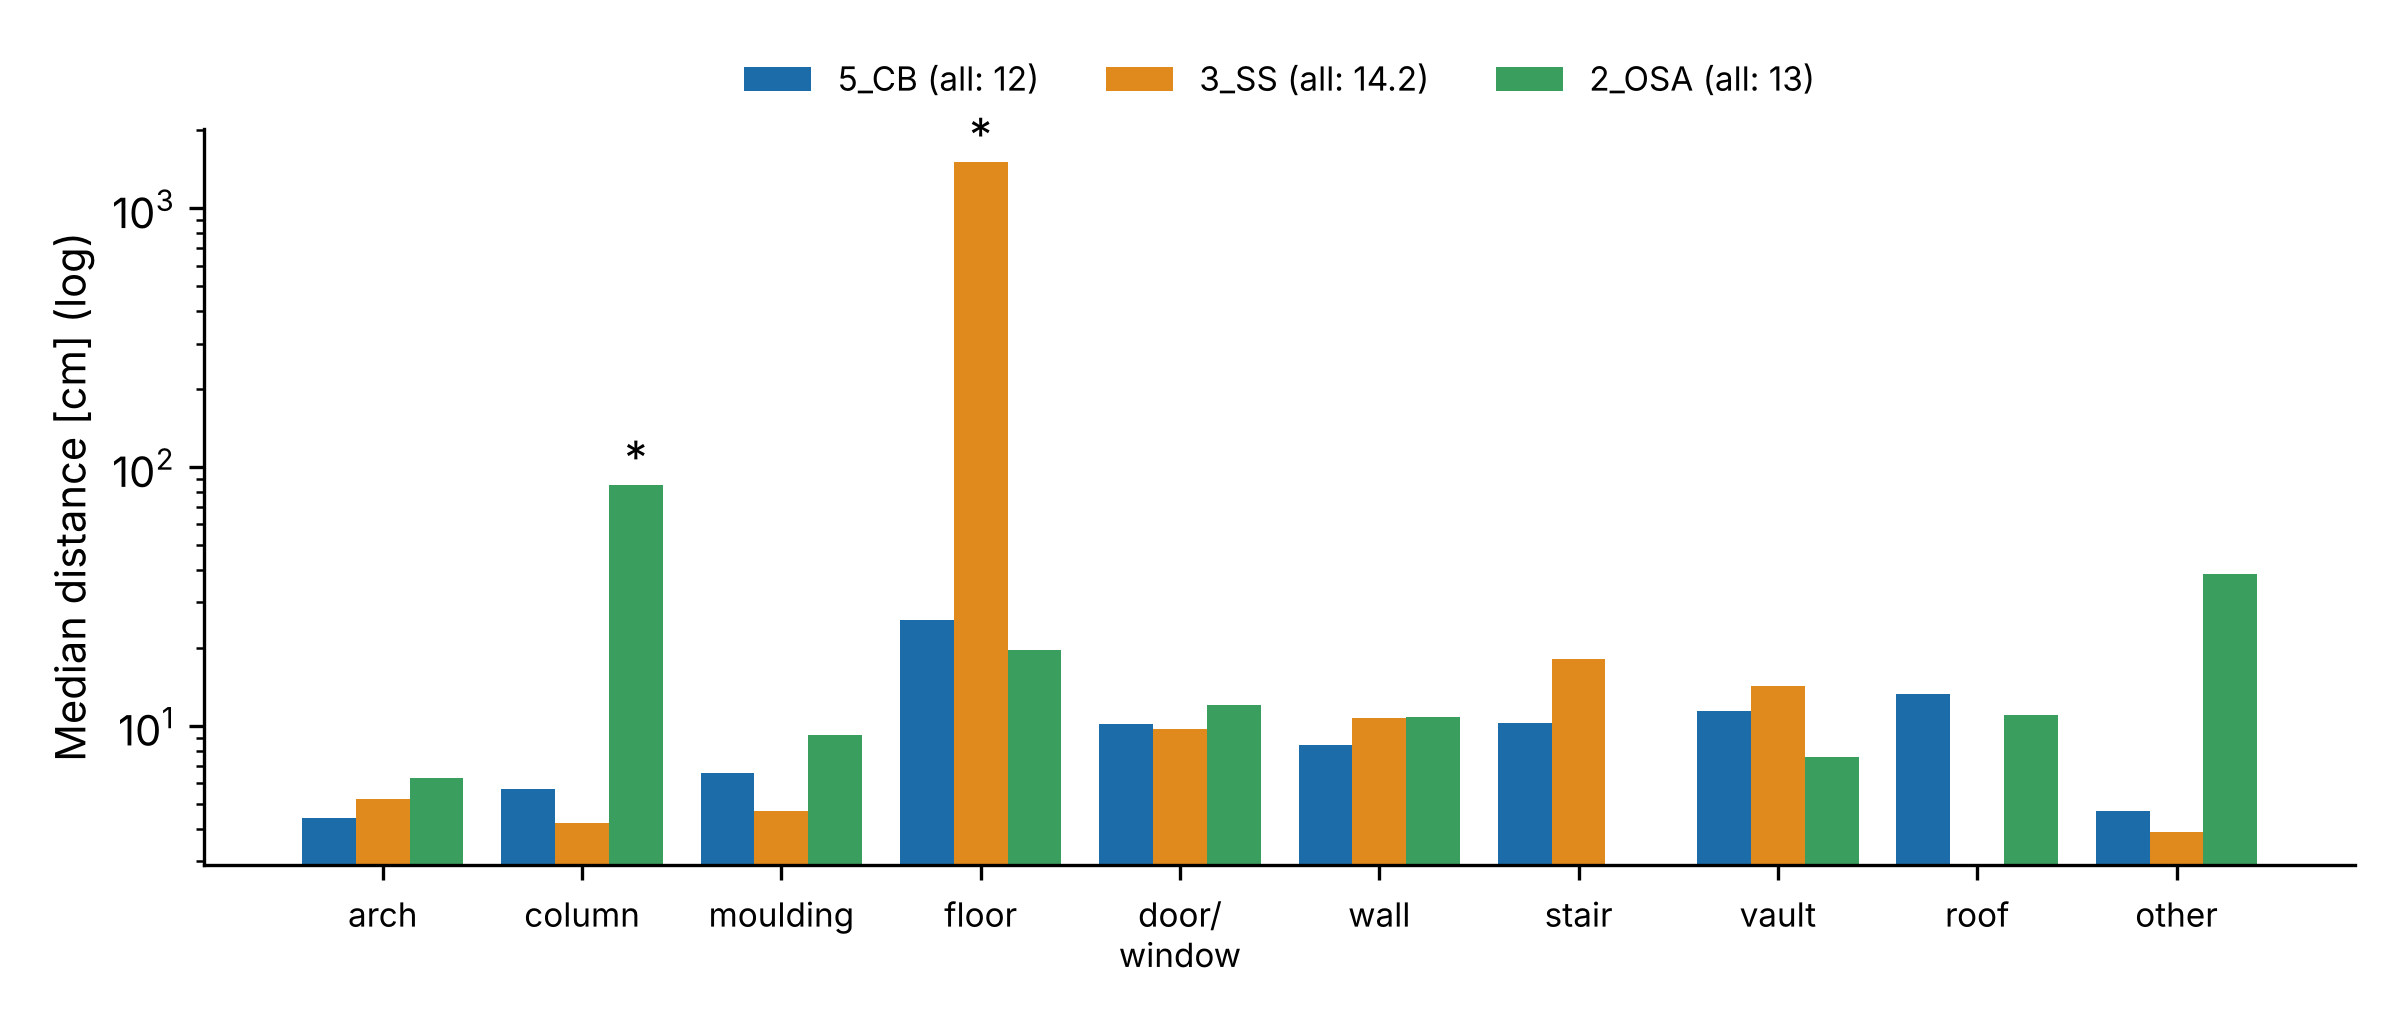
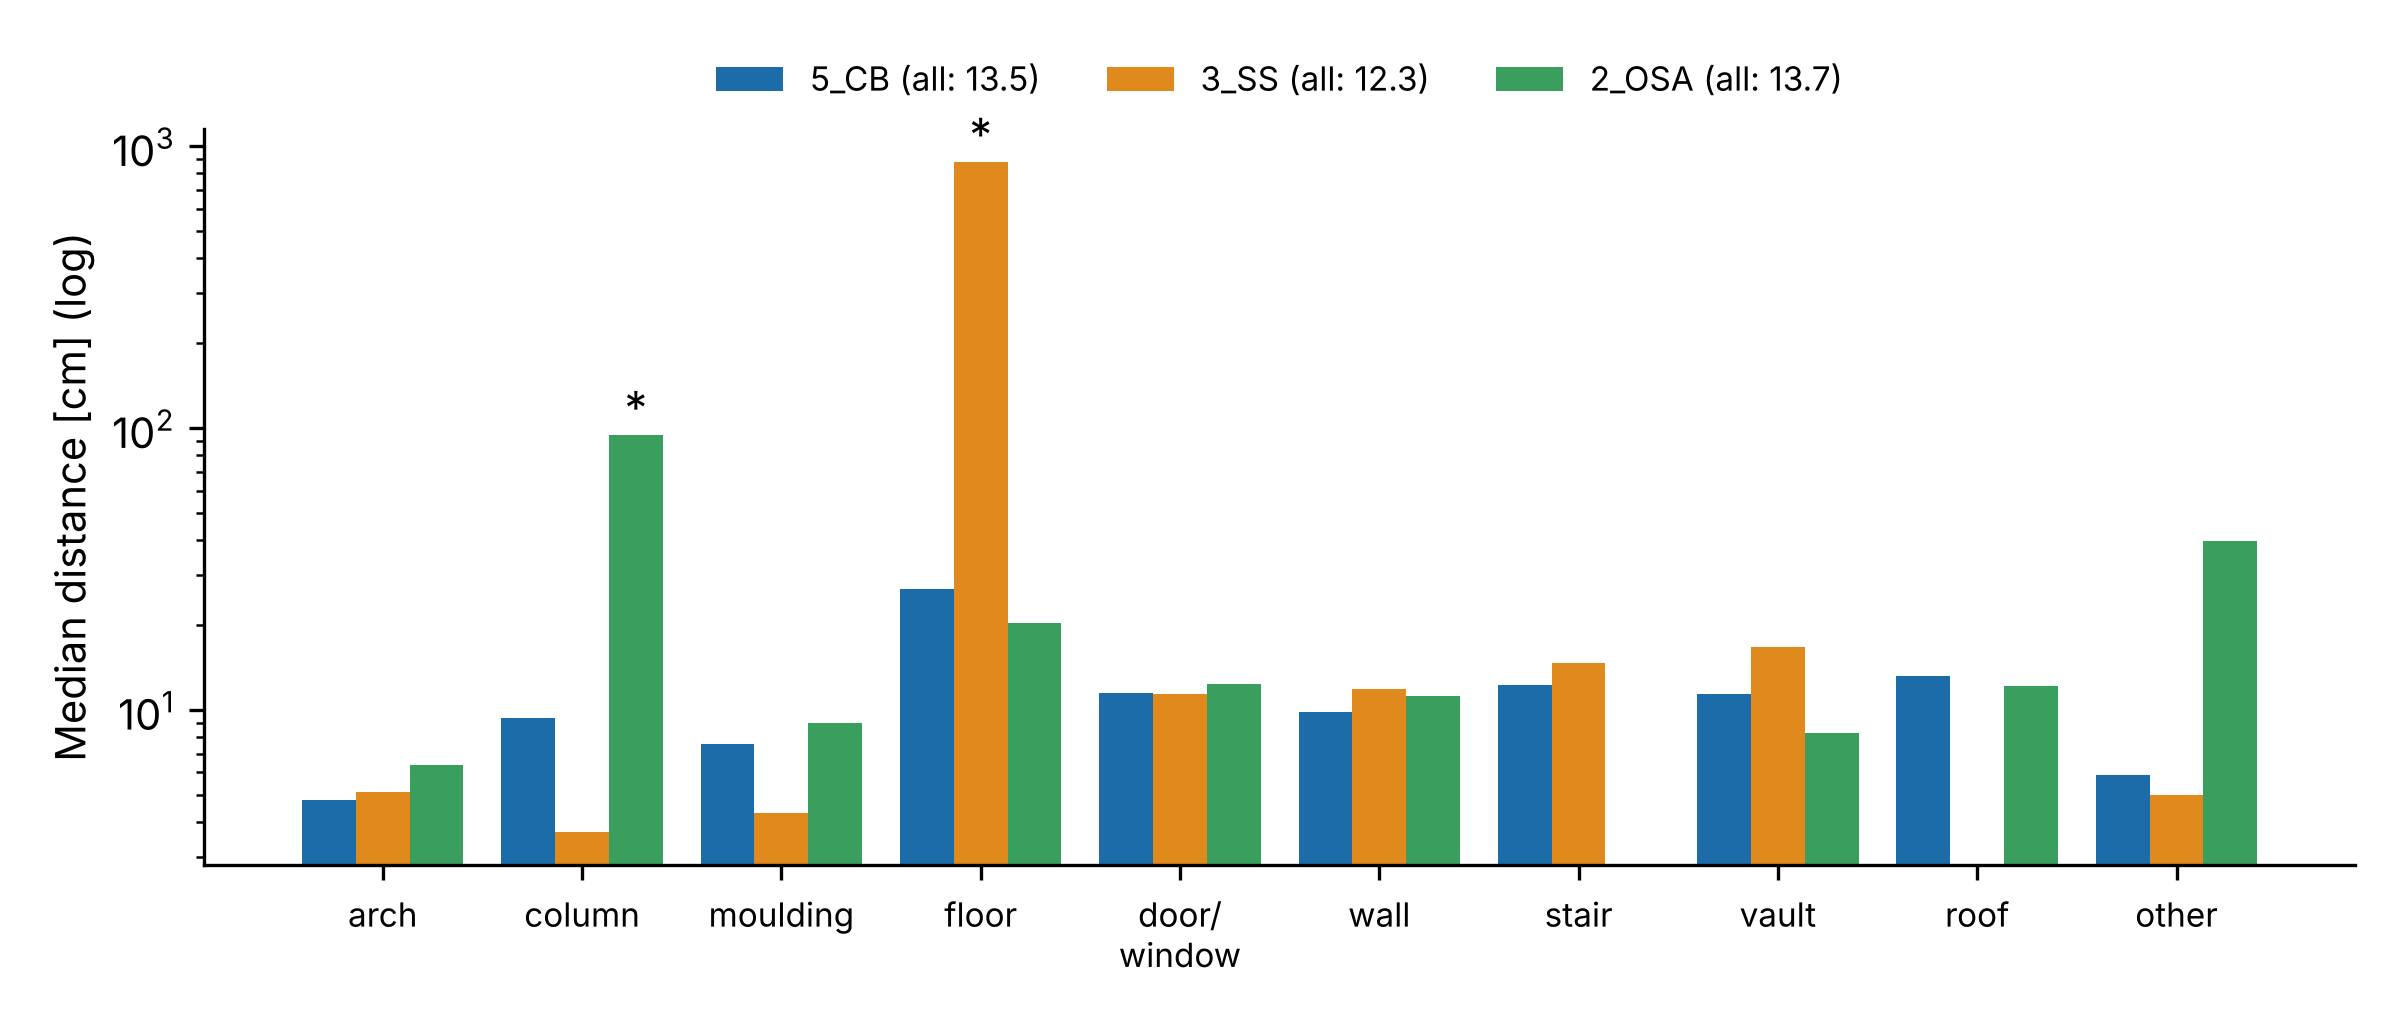
Paper B: Ergebnisse in voller Auflösung (Tabellen, Abb. 1–2, Text, Anschreiben)
Claude-Session: https://claude.ai/code/session_01EWi9WYY4CMGT45BZm4sgXJ

diff --git a/Paper_ODT/Heritage_Toolkit_Paper/Manuscript_EN.md b/Paper_ODT/Heritage_Toolkit_Paper/Manuscript_EN.md
@@ -8,8 +8,8 @@
 ## Highlights
 
 - Standard 3D Gaussian Splatting compared with labelled survey clouds of 3 buildings
-- Median deviation of splat centres 12–14 cm; 55–72 % of the survey within 10 cm
-- Arches reach 4–6 cm in all buildings; floors are consistently the weakest class
+- Median deviation of splat centres 12–14 cm; 52–67 % of the survey within 10 cm
+- Arches reach 5–6 cm in all buildings; floors are among the weakest classes
 - Hold-out image quality on survey imagery measures coverage, not reconstruction
 - Open data, free software and an online viewer make the comparison repeatable
 
@@ -20,11 +20,11 @@ and is increasingly proposed for heritage documentation, yet its geometric relia
 against an independent survey. We trained standard 3DGS (gsplat 1.5.3, 30 000 iterations) on the open
 heritage dataset of Pellis et al. (2025), using the published camera orientations, and compared the splat
 centres with the labelled photogrammetric reference point clouds (7–11 million points) of three historic
-buildings per architectural class. The median distance of splat centres to the reference was
-12.0–14.2 cm, and 55–72 % of the reference points had a splat within 10 cm. Arches reached 4–6 cm in all
-three buildings, whereas floors were consistently the weakest class and floating Gaussians pushed the 95th
-percentile to metres. A repeated run reproduced the results within 1.4 cm (median) and with identical
-completeness. Held-out image quality was low (PSNR 14–16 dB) because survey-oriented image sets cover novel
+buildings per architectural class. At full image resolution, the median distance of splat centres to
+the reference was 12.3–13.7 cm, and 52–67 % of the reference points had a splat within 10 cm. Arches
+reached 5–6 cm in all three buildings, whereas floors were among the weakest classes and floating Gaussians
+pushed the 95th percentile to metres. Runs at half resolution, repeated twice, gave the same picture
+(medians within 2 cm), so resolution sharpened the renderings but not the geometry. Held-out image quality was low (PSNR 14–16 dB) because survey-oriented image sets cover novel
 viewpoints poorly, so hold-out PSNR reflects capture coverage rather than reconstruction fidelity. We also
 show that the published images are already undistorted and must not be undistorted again. 3DGS is
 therefore a strong medium for presenting heritage, while metric statements should rest on the survey.
@@ -118,11 +118,12 @@ already undistorted, and the published orientation is consistent with them.
 
 ### 3.3 3DGS training
 
-We used gsplat 1.5.3 (Ye et al., 2025) with its default densification strategy, 30 000 iterations, half
-image resolution (1936 × 1296 px) and 300 000 initial points sampled from the reference cloud. All images
+We used gsplat 1.5.3 (Ye et al., 2025) with its default densification strategy, 30 000 iterations, full
+image resolution (3872 × 2592 px) and 300 000 initial points sampled from the reference cloud. All images
 were used for training. The trainer's scene normalisation was inverted on export so that the Gaussians are
-expressed in the reference frame. Training ran on single rented GPUs (NVIDIA Tesla V100, RTX A4500 or
-RTX A4000) in 20–40 min per building.
+expressed in the reference frame. Training ran on a single rented NVIDIA RTX A4500 (20 GB) in 1–1.5 h per
+building, including the download of the data. For comparison, all three buildings were also trained twice
+at half resolution (1936 × 1296 px) on NVIDIA Tesla V100, RTX A4500 or RTX A4000 GPUs (20–40 min each).
 
 ### 3.4 Geometric comparison
 
@@ -134,8 +135,10 @@ KD-trees (SciPy; Virtanen et al., 2020).
 
 ### 3.5 Image quality (diagnostic)
 
-For 5_CB, additional runs held out every eighth image and reported PSNR, SSIM and LPIPS, plus an
-exposure-compensated PSNR in which a per-channel gain and offset is fitted from render to photograph.
+For 5_CB, additional runs at half resolution held out every eighth image and reported PSNR, SSIM and
+LPIPS, plus an exposure-compensated PSNR in which a per-channel gain and offset is fitted from render to
+photograph. For the full-resolution models, eight evenly spaced training views per building were rendered
+and compared with the photographs.
 
 ## 4. Results
 
@@ -147,51 +150,57 @@ Table 2. Geometric agreement of splat centres with the reference.
 
 | Building | Splats kept | Median | 95th pct. | Completeness 2 / 5 / 10 cm |
 |---|---|---|---|---|
-| 5_CB | 340 994 | 12.0 cm | 254.3 cm | 0.03 / 0.24 / 0.59 |
-| 3_SS | 589 814 | 14.2 cm | 2103.4 cm | 0.02 / 0.20 / 0.55 |
-| 2_OSA | 371 196 | 13.0 cm | 178.8 cm | 0.03 / 0.25 / 0.72 |
+| 5_CB | 293 042 | 13.5 cm | 208.6 cm | 0.02 / 0.21 / 0.56 |
+| 3_SS | 456 279 | 12.3 cm | 1943.5 cm | 0.02 / 0.18 / 0.52 |
+| 2_OSA | 315 514 | 13.7 cm | 177.7 cm | 0.02 / 0.22 / 0.67 |
 
 Table 3. Median distance / completeness at 10 cm per class (— = class not present among the kept splats).
 
 | Class | 5_CB | 3_SS | 2_OSA |
 |---|---|---|---|
-| 0 arch | 4.4 cm / 0.92 | 5.2 cm / 0.64 | 6.3 cm / 0.85 |
-| 1 column | 5.7 cm / 0.98 | 4.2 cm / 0.76 | 85.2 cm / 0.92 |
-| 2 moulding | 6.6 cm / 0.75 | 4.7 cm / 0.74 | 9.2 cm / 0.85 |
-| 3 floor | 25.6 cm / 0.33 | 1505.9 cm / 0.37 | 19.7 cm / 0.62 |
-| 4 door/window | 10.2 cm / 0.81 | 9.7 cm / 0.59 | 12.0 cm / 0.76 |
-| 5 wall | 8.4 cm / 0.75 | 10.7 cm / 0.46 | 10.8 cm / 0.71 |
-| 6 stair | 10.3 cm / 0.45 | 18.2 cm / 0.36 | — |
-| 7 vault | 11.4 cm / 0.74 | 14.2 cm / 0.36 | 7.6 cm / 0.75 |
-| 8 roof | 13.3 cm / 0.59 | — | 11.0 cm / 0.80 |
-| 9 other | 4.7 cm / 0.86 | 3.9 cm / 0.59 | 38.6 cm / 0.74 |
-| 10 background | 59.7 cm / 0.03 | — | — |
+| 0 arch | 4.8 cm / 0.88 | 5.1 cm / 0.61 | 6.4 cm / 0.79 |
+| 1 column | 9.4 cm / 0.98 | 3.7 cm / 0.74 | 94.2 cm / 0.86 |
+| 2 moulding | 7.6 cm / 0.72 | 4.3 cm / 0.71 | 9.0 cm / 0.81 |
+| 3 floor | 26.8 cm / 0.32 | 876.9 cm / 0.34 | 20.3 cm / 0.53 |
+| 4 door/window | 11.5 cm / 0.79 | 11.4 cm / 0.48 | 12.4 cm / 0.73 |
+| 5 wall | 9.8 cm / 0.72 | 11.9 cm / 0.43 | 11.2 cm / 0.71 |
+| 6 stair | 12.3 cm / 0.40 | 14.7 cm / 0.37 | — |
+| 7 vault | 11.4 cm / 0.72 | 16.7 cm / 0.31 | 8.3 cm / 0.69 |
+| 8 roof | 13.2 cm / 0.56 | — | 12.2 cm / 0.77 |
+| 9 other | 5.9 cm / 0.84 | 5.0 cm / 0.57 | 39.9 cm / 0.73 |
+| 10 background | 55.3 cm / 0.03 | — | — |
 
 ![Completeness at 10 cm per class and building.](figures/fig1_completeness_10cm.png)
 
 ![Median distance of splat centres to the reference per class (log scale; * = dominated by floating Gaussians).](figures/fig2_median.png)
 
-Well-observed, textured elements — arches, columns and mouldings — reached 4–7 cm with high completeness.
-Floors were the weakest class in all three buildings, consistent with grazing viewing angles and little
-texture. Two medians are dominated by floating Gaussians rather than by surface error: in 3_SS,
-217 562 Gaussians in front of or above the building (background, vegetation, sky) fall inside the hull
-and have a floor point as nearest neighbour (median 15 m); in 2_OSA the columns are well covered (0.92)
-but surrounded by floaters (median 85 cm). Completeness is unaffected by floaters and is therefore the
-more robust indicator.
+Well-observed, textured elements — arches, columns and mouldings — reached 4–10 cm with high
+completeness. Floors were among the weakest classes in all three buildings (completeness 0.32–0.53),
+consistent with grazing viewing angles and little texture. Two medians are dominated by floating Gaussians
+rather than by surface error: in 3_SS, 150 344 Gaussians in front of or above the building (background,
+vegetation, sky) fall inside the hull and have a floor point as nearest neighbour (median 8.8 m); in 2_OSA
+the columns are well covered (0.86) but surrounded by floaters (median 94 cm). Completeness is unaffected
+by floaters and is therefore the more robust indicator.
 
-A second, independent run of all three buildings with identical settings reproduced the medians within
-1.4 cm (5_CB 11.4 cm, 3_SS 12.8 cm, 2_OSA 12.6 cm) and gave identical completeness at 10 cm.
+**Resolution and repeatability.** At half resolution, the medians were 12.0 cm (5_CB), 14.2 cm (3_SS) and
+13.0 cm (2_OSA), with completeness at 10 cm of 0.59, 0.55 and 0.72; a second half-resolution run reproduced
+the medians within 1.4 cm and gave identical completeness. Full resolution produced sharper renderings,
+but did not improve the geometry: the medians changed by −1.9 to
++1.5 cm and completeness at 10 cm dropped slightly (by 0.03–0.05).
 
 ### 4.2 Two pitfalls
 
 **Double undistortion.** Applying the published distortion coefficients to the already undistorted images
-distorted them. Geometry degraded (5_CB median 14.9 cm instead of 12.0 cm), and COLMAP with one shared
+distorted them. Geometry degraded (5_CB at half resolution: median 14.9 cm instead of 12.0 cm), and COLMAP with one shared
 pinhole camera found a focal length 6 % too short and registered only 97 of 166 images.
 
 **Hold-out PSNR on survey imagery.** With correct inputs, the training loss reached 0.038, but held-out
 PSNR stayed at 14.4 dB (16.2 dB exposure-compensated; per image 12.1–21.8 dB). Renders of held-out views
 were sharp on well-covered parts (vault, columns) and broke down on ground and vegetation seen from few
-directions. Held-out PSNR therefore measured capture coverage rather than reconstruction fidelity. Before
+directions. Held-out PSNR therefore measured capture coverage rather than reconstruction fidelity. The same pattern
+held for the full-resolution models at training viewpoints: 16–28 dB for views inside the image block, but
+9–11 dB for the first and last images of a sequence, which see the building from its sparsely covered
+edges. Before
 these causes were identified, the orientation flag, initial point cloud, axis convention, published poses,
 undistortion, per-image focal length and exposure were each tested in a separate run.
 
@@ -226,8 +235,9 @@ were not tested and are the obvious next comparison on the same benchmark.
 
 Standard 3D Gaussian Splatting, trained on the published orientations of photogrammetric surveys, placed
 its Gaussians within 12–14 cm (median) of the reference surface of three historic buildings and covered
-55–72 % of the reference within 10 cm; arches reached 4–6 cm, floors remained the weakest class, and
-floating Gaussians produced metre-scale outliers. The results were reproducible. 3DGS is therefore a strong
+52–67 % of the reference within 10 cm; arches reached 5–6 cm, floors remained among the weakest classes,
+and floating Gaussians produced metre-scale outliers. The results were reproducible and did not improve
+with full image resolution. 3DGS is therefore a strong
 medium for presenting and sharing heritage — walkthroughs, annotation, dissemination — while metric
 statements should still rest on the photogrammetric or laser-scanning survey. Two lessons transfer to other
 projects: check whether published images are already undistorted before applying distortion models, and do

diff --git a/Paper_ODT/Heritage_Toolkit_Paper/ERGEBNISSE_v2_voll.md b/Paper_ODT/Heritage_Toolkit_Paper/ERGEBNISSE_v2_voll.md
@@ -1,0 +1,30 @@
+# Lauf v2: volle Auflösung (3872 × 2592), 05.11.2026
+
+Pod: RunPod Community RTX A4500 20 GB (0,19 $/h), gsplat 1.5.3, 30 000 Schritte, FACTOR=1, UNDIST=0,
+gelieferte Posen, `test_every` = 1000. Laufzeit inkl. Download: 5_CB 05:29–06:26, 3_SS 06:26–07:44,
+2_OSA 07:44–09:03 UTC. Kein Speicherproblem.
+
+## Bildqualität (gsplat-Test, Schritt 7k / 30k)
+
+| Gebäude | PSNR 7k | PSNR 30k | SSIM 30k | LPIPS 30k | Gaussians 30k |
+|---|---|---|---|---|---|
+| 5_CB | 9.824 | 9.926 | 0.3270 | 0.963 | 458 436 |
+| 3_SS | 17.820 | 17.221 | 0.6075 | 0.594 | 1 014 690 |
+| 2_OSA | 13.915 | 9.328 | 0.6327 | 0.794 | 621 708 |
+
+Testbild bei `test_every` = 1000 ist jeweils nur Foto 001 (schlecht abgedeckt) → nicht mit Lauf v1 vergleichbar.
+
+Fotostandpunkte (render_views.py, 8 gleichverteilte Trainingsfotos, PSNR dB):
+- 5_CB: 9.92, 17.84, 22.06, 21.93, 18.17, 27.38, 22.65, 16.58
+- 3_SS: 17.21, 17.26, 21.97, 22.76, 27.74, 23.74, 25.81, 17.05
+- 2_OSA: 9.37, 18.86, 16.34, 18.50, 17.83, 16.08, 10.79, 20.48
+
+## Geometrie (Deckkraft ≥ 0,5, in Hülle)
+
+| Gebäude | Splats | Median | 95 % | Vollst. 2/5/10 cm |
+|---|---|---|---|---|
+| 5_CB | 293 042 | 13.5 cm | 208.6 cm | 0.02 / 0.21 / 0.56 |
+| 3_SS | 456 279 | 12.3 cm | 1943.5 cm | 0.02 / 0.18 / 0.52 |
+| 2_OSA | 315 514 | 13.7 cm | 177.7 cm | 0.02 / 0.22 / 0.67 |
+
+Pro Klasse siehe `results/geometry_per_class_v2.csv`.

diff --git a/Paper_ODT/Heritage_Toolkit_Paper/Anschreiben_JCH.md b/Paper_ODT/Heritage_Toolkit_Paper/Anschreiben_JCH.md
@@ -32,8 +32,9 @@ architectural class.
 The main findings are:
 
 - Across three historic buildings the median deviation of the Gaussian centres from the reference is
-  12.0–14.2 cm, with 55–72 % of the reference covered within 10 cm; arches reach 4–6 cm in all three,
-  while floors remain the weakest class.
+  12.3–13.7 cm at full image resolution, with 52–67 % of the reference covered within 10 cm; arches reach
+  5–6 cm in all three, while floors remain among the weakest classes. Half-resolution runs give the same
+  result, so higher resolution sharpens the renderings but not the geometry.
 - Held-out image quality on survey imagery mainly reflects capture coverage, not reconstruction fidelity,
   and is a misleading quality indicator for heritage use.
 - Re-applying distortion models to already undistorted survey images degrades both reconstruction and

diff --git a/Paper_ODT/Heritage_Toolkit_Paper/Cover_Letter_JCH.md b/Paper_ODT/Heritage_Toolkit_Paper/Cover_Letter_JCH.md
@@ -26,8 +26,9 @@ architectural class.
 The main findings are:
 
 - Across three historic buildings the median deviation of the Gaussian centres from the reference is
-  12.0–14.2 cm, with 55–72 % of the reference covered within 10 cm; arches reach 4–6 cm in all three,
-  while floors remain the weakest class.
+  12.3–13.7 cm at full image resolution, with 52–67 % of the reference covered within 10 cm; arches reach
+  5–6 cm in all three, while floors remain among the weakest classes. Half-resolution runs give the same
+  result, so higher resolution sharpens the renderings but not the geometry.
 - Held-out image quality on survey imagery mainly reflects capture coverage, not reconstruction fidelity,
   and is a misleading quality indicator for heritage use.
 - Re-applying distortion models to already undistorted survey images degrades both reconstruction and
